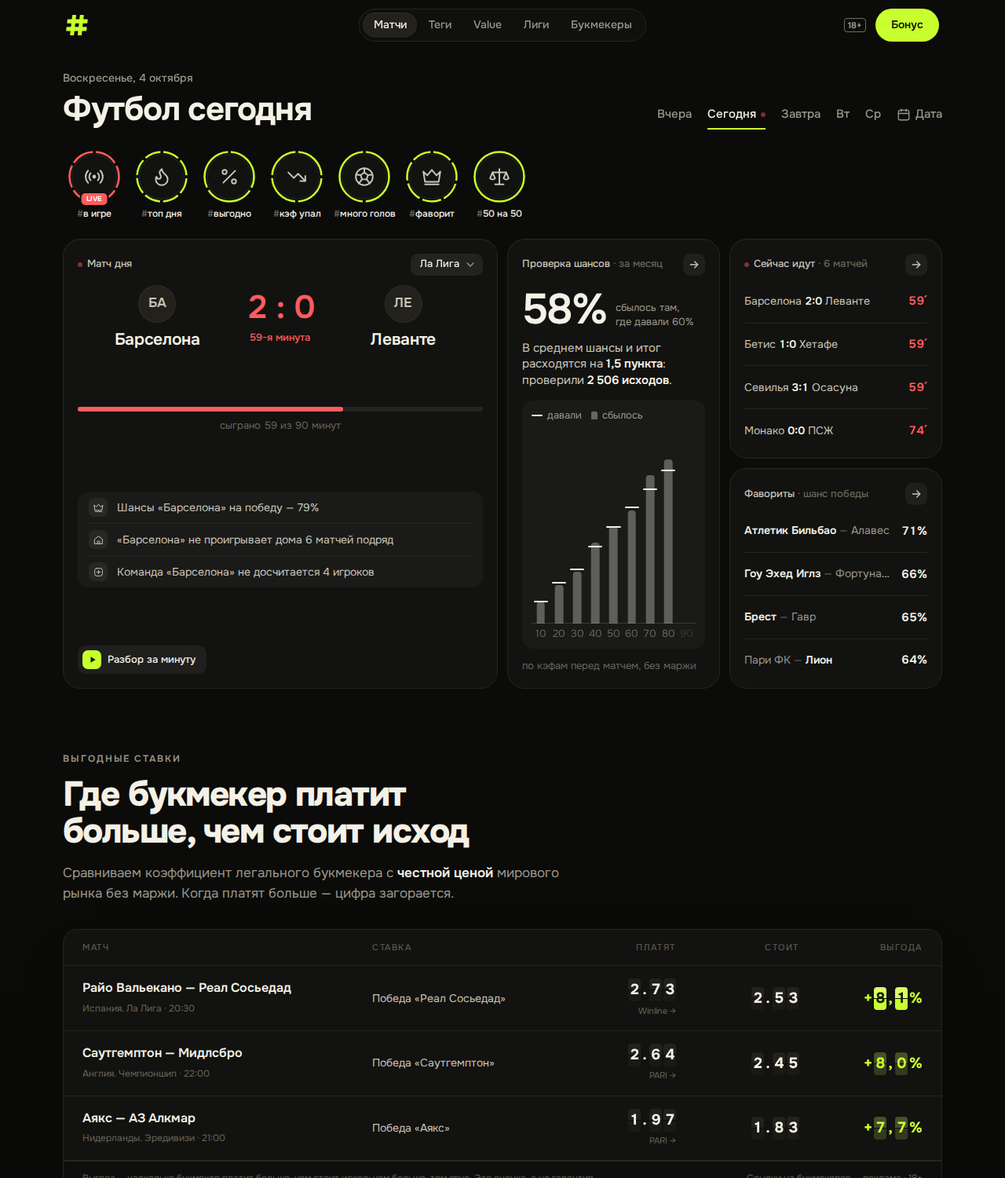
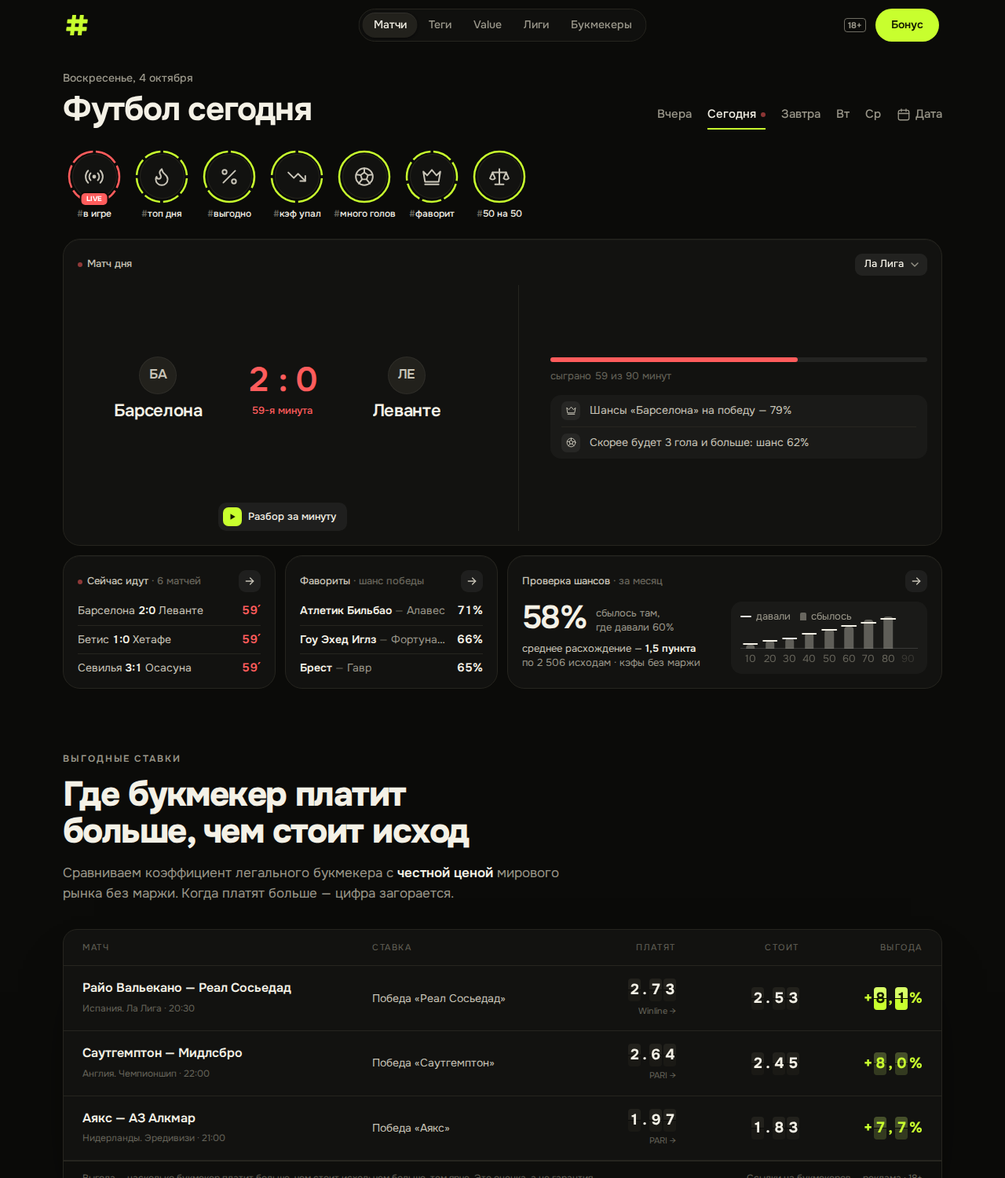
Широкий «Матч дня» сверху и ряд плиток под ним
Владелец сравнил со старым скриншотом: расстановка «главное во всю ширину,
под ним ряд одинаковых плиток» спокойнее и понятнее, чем высокий «Матч дня»
сбоку. Возвращаем её, но с новым содержимым: в плитках — подборки по три
матча, а не «одна цифра + один матч»; «Проверка шансов» — шириной в две.

«Матч дня» на компьютере — в две колонки, без пустой середины: слева табло и
кнопки, справа вывод, полоса шансов и факты «почему» (второй и третий — по
высоте окна). Ряд плиток — по содержимому, лишняя высота — «Матчу дня»;
сводка влезает в 1280×720, 1440×760 и 1470×805.

Claude-Session: https://claude.ai/code/session_01LqCxNKeCAKNwhNzoBsjYvY

diff --git a/components/DaySummary.tsx b/components/DaySummary.tsx
@@ -59,10 +59,10 @@ type ListCard = { title: string; hint?: string; href: string; live?: boolean; ro
 
 const ROW = '-mx-2 flex min-w-0 flex-1 items-center justify-between gap-3 rounded-lg px-2 text-[14px] text-chalk transition-colors hover:bg-white/[0.04]'
 
-/**
- * Строки делят высоту плитки поровну — плитка заполнена, сколько бы места ни дал экран.
- * Четвёртая строка — только на компьютере с высоким окном: на телефоне и ноутбуке пониже хватает трёх.
- */
+/** Строк в плитке: ряд плиток под «Матчем дня» одной высоты, лишняя высота экрана уходит «Матчу дня». */
+const TILE_ROWS = 3
+
+/** Строки делят высоту плитки поровну — плитка заполнена, даже если соседняя в ряду выше. */
 function ListTile({ title, hint, href, live = false, rows }: ListCard) {
   return (
     <article className={`flex h-full min-w-0 flex-col px-[18px] pb-2 pt-[18px] ${CARD}`}>
@@ -75,7 +75,7 @@ function ListTile({ title, hint, href, live = false, rows }: ListCard) {
         <Go />
       </Link>
       <ol className="mt-1.5 flex flex-1 flex-col">
-        {rows.map((r, i) => {
+        {rows.slice(0, TILE_ROWS).map((r) => {
           const body = (
             <>
               <span className="min-w-0 truncate">{r.left}</span>
@@ -83,7 +83,7 @@ function ListTile({ title, hint, href, live = false, rows }: ListCard) {
             </>
           )
           return (
-            <li key={r.key} className={`flex min-h-[36px] flex-1 border-t border-edge first:border-t-0 ${i >= 3 ? 'hidden lg:flex lg:[@media(max-height:759px)]:hidden' : ''}`}>
+            <li key={r.key} className="flex min-h-[36px] flex-1 border-t border-edge first:border-t-0">
               {r.it ? (
                 <StoryLink id={r.it.match.id} href={matchHref(r.it.match)} className={ROW}>
                   {body}
@@ -259,7 +259,7 @@ function ChanceBar({ m }: { m: Match }) {
         ))}
       </div>
       {/* на невысоком ноутбуке подпись прячем — карточка должна влезать в экран */}
-      <p className="mt-1.5 text-center text-[13px] text-mute lg:[@media(max-height:779px)]:hidden" aria-hidden>
+      <p className="mt-1.5 text-center text-[13px] text-mute lg:text-left lg:[@media(max-height:779px)]:hidden" aria-hidden>
         шансы по кэфам букмекеров · в середине — ничья
       </p>
     </div>
@@ -288,8 +288,9 @@ function reasonsFor(it: FeedItem, v: Verdict | null): Reason[] {
 
 /**
  * Слайд «Матча дня» — как карточка матча в спортивных приложениях: табло (хозяева · время или счёт · гости),
- * под ним вывод словами и полоса шансов, ниже — факты «почему» одной панелью и кнопки.
- * Шапка с выбором лиги — у карусели (TopCarousel); лишняя высота делится поровну между блоками.
+ * вывод словами и полоса шансов, факты «почему» одной панелью и кнопки. На телефоне — столбиком;
+ * на компьютере карточка во всю ширину и в две колонки: слева табло и кнопки, справа вывод, шансы
+ * и факты — без пустой середины. Шапка с выбором лиги — у карусели (TopCarousel).
  */
 function TopSlide({ it }: { it: FeedItem }) {
   const m = it.match
@@ -307,20 +308,44 @@ function TopSlide({ it }: { it: FeedItem }) {
     <span className="flex min-w-0 flex-col items-center gap-2 text-center">
       <TeamLogo name={t.name} src={t.logo} size={48} />
       <span
-        className={`line-clamp-2 text-[16px] font-semibold leading-tight tracking-[-0.015em] sm:text-[18px] lg:text-[clamp(17px,2.5vh,21px)] ${v?.side && v.side !== k ? 'text-chalk' : 'text-fg'}`}
+        className={`line-clamp-2 text-[16px] font-semibold leading-tight tracking-[-0.015em] sm:text-[18px] lg:text-[clamp(17px,2.5vh,22px)] ${v?.side && v.side !== k ? 'text-chalk' : 'text-fg'}`}
       >
         {t.name}
       </span>
     </span>
   )
+
+  const state = played ? (
+    live ? (
+      // идёт матч: сколько сыграно — тонкой полосой; вывода до матча здесь уже нет
+      <div>
+        <div className="h-1.5 rounded-full bg-white/[0.08]" aria-hidden>
+          <div className="h-full rounded-full bg-live" style={{ width: `${Math.min(100, ((m.elapsed ?? 45) / 90) * 100)}%` }} />
+        </div>
+        <p className="mt-2 text-center text-[13px] text-mute lg:text-left">сыграно {Math.min(90, m.elapsed ?? 45)} из 90 минут</p>
+      </div>
+    ) : null
+  ) : (
+    // вывод → на чём он основан (полоса шансов по кэфам)
+    <div>
+      {v ? (
+        <p className="mb-2.5 text-center text-[17px] font-semibold leading-snug tracking-[-0.01em] lg:text-left lg:text-[clamp(17px,2.5vh,22px)]">{v.headline}</p>
+      ) : null}
+      <ChanceBar m={m} />
+    </div>
+  )
+  const wide = Boolean(state) || reasons.length > 0
+
   return (
-    <div className="relative flex min-w-0 flex-1 flex-col justify-between gap-4 lg:[@media(max-height:779px)]:gap-3">
+    <div
+      className={`relative flex min-w-0 flex-1 flex-col justify-between gap-4 ${wide ? 'lg:grid lg:grid-cols-2 lg:grid-rows-[minmax(0,1fr)_auto] lg:gap-x-10 lg:gap-y-3' : ''}`}
+    >
       {/* табло: хозяева — время (после свистка — счёт) — гости; вся карточка открывает сторис */}
-      <StoryLink id={m.id} href={matchHref(m)} className={`grid grid-cols-[minmax(0,1fr)_auto_minmax(0,1fr)] items-start gap-3 ${COVER}`}>
+      <StoryLink id={m.id} href={matchHref(m)} className={`grid grid-cols-[minmax(0,1fr)_auto_minmax(0,1fr)] items-start gap-3 lg:self-center ${COVER}`}>
         {side(m.home, 'home')}
         <span className="flex flex-col items-center pt-2">
           <span
-            className={`num whitespace-nowrap text-[30px] font-semibold leading-none tracking-[-0.03em] sm:text-[34px] lg:text-[clamp(32px,4.6vh,44px)] ${live ? 'text-live' : ''}`}
+            className={`num whitespace-nowrap text-[30px] font-semibold leading-none tracking-[-0.03em] sm:text-[34px] lg:text-[clamp(32px,4.8vh,46px)] ${live ? 'text-live' : ''}`}
           >
             {played && m.score ? `${m.score.home} : ${m.score.away}` : formatTime(m.ts)}
           </span>
@@ -331,42 +356,32 @@ function TopSlide({ it }: { it: FeedItem }) {
         {side(m.away, 'away')}
       </StoryLink>
 
-      {played ? (
-        live ? (
-          // идёт матч: сколько сыграно — тонкой полосой; вывода до матча здесь уже нет
-          <div>
-            <div className="h-1.5 rounded-full bg-white/[0.08]" aria-hidden>
-              <div className="h-full rounded-full bg-live" style={{ width: `${Math.min(100, ((m.elapsed ?? 45) / 90) * 100)}%` }} />
-            </div>
-            <p className="mt-2 text-center text-[13px] text-mute">сыграно {Math.min(90, m.elapsed ?? 45)} из 90 минут</p>
-          </div>
-        ) : null
-      ) : (
-        // вывод → на чём он основан (полоса шансов по кэфам)
-        <div>
-          {v ? <p className="mb-2.5 text-center text-[17px] font-semibold leading-snug tracking-[-0.01em] lg:text-[clamp(17px,2.5vh,21px)]">{v.headline}</p> : null}
-          <ChanceBar m={m} />
+      {wide ? (
+        // справа на компьютере: вывод, шансы и факты; разделитель — тонкая линия
+        <div className="flex min-w-0 flex-col justify-between gap-4 lg:col-start-2 lg:row-span-2 lg:row-start-1 lg:justify-center lg:gap-3.5 lg:border-l lg:border-edge lg:pl-10">
+          {state}
+          {reasons.length ? (
+            // факты «почему» — одной панелью; второй и третий — только где хватает высоты окна
+            <ul className="rounded-[14px] bg-white/[0.035] px-3.5">
+              {reasons.map((r, i) => (
+                <li
+                  key={i}
+                  className={`flex items-center gap-3 border-t border-edge py-2 text-[14px] leading-snug text-chalk first:border-t-0 ${
+                    i === 1 ? 'lg:[@media(max-height:739px)]:hidden' : i === 2 ? 'lg:[@media(max-height:859px)]:hidden' : ''
+                  }`}
+                >
+                  <span className={`grid h-6 w-6 shrink-0 place-items-center rounded-[7px] ${r.hot ? 'bg-hot/[0.14] text-hot' : 'bg-white/[0.06] text-chalk'}`}>
+                    <ArtIcon name={r.icon} className="h-[13px] w-[13px]" />
+                  </span>
+                  <span className="line-clamp-2">{r.text}</span>
+                </li>
+              ))}
+            </ul>
+          ) : null}
         </div>
-      )}
-
-      {reasons.length ? (
-        // факты «почему» — одной панелью; третий — только где хватает высоты (невысокий ноутбук)
-        <ul className="rounded-[14px] bg-white/[0.035] px-3.5">
-          {reasons.map((r, i) => (
-            <li
-              key={i}
-              className={`flex items-center gap-3 border-t border-edge py-2 text-[14px] leading-snug text-chalk first:border-t-0 ${i === 2 ? 'lg:[@media(max-height:779px)]:hidden' : ''}`}
-            >
-              <span className={`grid h-6 w-6 shrink-0 place-items-center rounded-[7px] ${r.hot ? 'bg-hot/[0.14] text-hot' : 'bg-white/[0.06] text-chalk'}`}>
-                <ArtIcon name={r.icon} className="h-[13px] w-[13px]" />
-              </span>
-              <span className="line-clamp-2">{r.text}</span>
-            </li>
-          ))}
-        </ul>
       ) : null}
 
-      <div className="flex flex-wrap items-center justify-between gap-x-3 gap-y-2 text-[13px]">
+      <div className="flex flex-wrap items-center justify-between gap-x-3 gap-y-2 text-[13px] lg:col-start-1 lg:row-start-2 lg:justify-center lg:gap-x-2.5">
         <span aria-hidden className="inline-flex shrink-0 items-center gap-2 whitespace-nowrap rounded-[10px] bg-white/[0.06] py-1.5 pl-1.5 pr-3.5 font-medium text-fg">
           <span className="grid h-6 w-6 place-items-center rounded-[7px] bg-acid text-acid-ink">
             <svg viewBox="0 0 12 12" className="ml-px h-2.5 w-2.5" fill="currentColor">
@@ -391,9 +406,9 @@ function TopSlide({ it }: { it: FeedItem }) {
 const B = ({ children }: { children: React.ReactNode }) => <b className="font-semibold text-fg">{children}</b>
 
 /**
- * Аналитика: сбываются ли проценты, которые показывает сайт. Крупно — пример по корзине «около 60%»
- * (порог тега #фаворит): «58% сбылось там, где давали 60%», ниже — средняя разница по всем шансам
- * и график «давали — сбылось» (lib/chance-check.ts). Без денег и обещаний.
+ * Аналитика: сбываются ли проценты, которые показывает сайт. В ряду плиток — шириной в две:
+ * слева крупно пример по корзине «около 60%» (порог тега #фаворит) — «58% сбылось там, где давали 60%»
+ * и среднее расхождение, справа график «давали — сбылось» (lib/chance-check.ts). Без денег и обещаний.
  */
 function ChanceTile({ c }: { c: ChanceCheck }) {
   return (
@@ -404,68 +419,65 @@ function ChanceTile({ c }: { c: ChanceCheck }) {
         </span>
         <Go />
       </Link>
-      <div className="mt-4 flex items-end gap-3">
-        <p className="text-[44px] font-semibold leading-none tracking-[-0.04em] lg:text-[clamp(40px,6.4vh,54px)]">{pct(c.lead.hit)}</p>
-        <p className="pb-0.5 text-[13px] leading-snug text-dim">
-          сбылось там,
-          <br />
-          где давали {pct(c.lead.p)}
-        </p>
+      <div className="mt-3 grid flex-1 gap-4 sm:grid-cols-2">
+        <div className="flex min-w-0 flex-col">
+          <div className="flex items-end gap-3">
+            <p className="text-[40px] font-semibold leading-none tracking-[-0.04em] lg:text-[clamp(34px,4.6vh,44px)]">{pct(c.lead.hit)}</p>
+            <p className="text-[13px] leading-snug text-dim">
+              сбылось там,
+              <br />
+              где давали {pct(c.lead.p)}
+            </p>
+          </div>
+          <p className="mt-2.5 text-[13px] leading-snug text-chalk">
+            среднее расхождение — <B>{c.gap.toFixed(1).replace('.', ',')} пункта</B>
+          </p>
+          <p className="text-[13px] leading-snug text-dim">
+            по {new Intl.NumberFormat('ru-RU').format(c.outcomes)} {plural(c.outcomes, ['исходу', 'исходам', 'исходам'])} · кэфы без маржи
+          </p>
+        </div>
+        <ChanceChart className="h-[150px] sm:h-auto sm:min-h-[90px]" bins={c.bins} />
       </div>
-      <p className="mt-3 text-[15px] leading-snug text-chalk">
-        В среднем шансы и итог расходятся на <B>{c.gap.toFixed(1).replace('.', ',')} пункта</B>: проверили{' '}
-        <B>
-          {new Intl.NumberFormat('ru-RU').format(c.outcomes)} {plural(c.outcomes, ['исход', 'исхода', 'исходов'])}
-        </B>
-        .
-      </p>
-      <ChanceChart className="mt-4 h-[180px] lg:h-auto lg:min-h-[120px] lg:flex-1" bins={c.bins} />
-      <p className="mt-3 text-[13px] text-mute">по кэфам перед матчем, без маржи</p>
     </article>
   )
 }
 
 /**
- * «Сводка дня» — первый экран главной: слева высокий «Матч дня» (карусель по топ-лигам), справа до четырёх плиток-подборок (2×2).
- * На телефоне — всё столбиком, на планшете — подборки по две в ряд. Сводка тянется до низа окна
- * (см. DayView): строки подборок делят высоту поровну, пустых мест в плитках нет.
+ * «Сводка дня» — первый экран главной: сверху во всю ширину «Матч дня» (карусель по топ-лигам),
+ * под ним ряд плиток одной высоты — подборки со списками матчей и «Проверка шансов» шириной в две.
+ * Порядок «главное сверху, детали рядом снизу» владелец счёл спокойнее, чем высокий «Матч дня» сбоку.
+ * На компьютере сводка тянется до низа окна (см. DayView): лишняя высота уходит «Матчу дня»,
+ * ряд плиток — по содержимому (три строки в подборке).
  */
 export function DaySummary({ s, check = null, className = '' }: { s: Summary; check?: ChanceCheck | null; className?: string }) {
   if (!s.top) return null
-  // с «Проверкой шансов» — она на месте двух плиток: справа остаются две подборки
+  // «Проверка шансов» занимает две колонки ряда: подборок тогда две
   const cards = summaryCards(s).slice(0, check ? 2 : 4)
-  const n = cards.length
-  // плиток меньше, чем мест, — растягиваем последние, чтобы в сетке не было дыр
-  const span = (i: number) =>
-    check
-      ? n === 1
-        ? 'lg:row-span-2'
-        : ''
-      : n === 1
-        ? 'sm:col-span-2 lg:row-span-2'
-        : n === 2 || (n === 3 && i === 2)
-          ? 'sm:col-span-2'
-          : ''
+  const cols = cards.length + (check ? 2 : 0)
+  const lgCols = cols >= 4 ? 'lg:grid-cols-4' : cols === 3 ? 'lg:grid-cols-3' : cols === 2 ? 'lg:grid-cols-2' : ''
+  // на планшете по две в ряд: одинокая последняя подборка — во всю ширину
+  const wideLast = !check && cards.length % 2 === 1
   return (
-    <section aria-label="Сводка дня" className={`grid gap-3 sm:grid-cols-2 lg:grid-cols-4 ${className}`}>
-      <TopCarousel
-        heads={s.tops.map((t) => ({ league: leagueShort(t.match.league), live: isLive(t.match) }))}
-        className={`sm:col-span-2 lg:row-span-2 ${n === 0 && !check ? 'lg:col-span-4' : ''} ${CARD}`}
-      >
+    <section aria-label="Сводка дня" className={`flex flex-col gap-3 ${className}`}>
+      <TopCarousel heads={s.tops.map((t) => ({ league: leagueShort(t.match.league), live: isLive(t.match) }))} className={`lg:flex-1 ${CARD}`}>
         {s.tops.map((t) => (
           <TopSlide key={t.match.id} it={t} />
         ))}
       </TopCarousel>
-      {check ? (
-        <div className={`min-w-0 lg:row-span-2 ${n === 0 ? 'sm:col-span-2' : ''}`}>
-          <ChanceTile c={check} />
+      {cols ? (
+        <div className={`grid gap-3 sm:grid-cols-2 ${lgCols}`}>
+          {cards.map((k, i) => (
+            <div key={k} className={`min-w-0 ${(wideLast && i === cards.length - 1) || (check && cards.length === 1) ? 'sm:col-span-2 lg:col-span-1' : ''}`}>
+              <ListTile {...cardFor(k, s)} />
+            </div>
+          ))}
+          {check ? (
+            <div className="min-w-0 sm:col-span-2">
+              <ChanceTile c={check} />
+            </div>
+          ) : null}
         </div>
       ) : null}
-      {cards.map((k, i) => (
-        <div key={k} className={`min-w-0 ${span(i)}`}>
-          <ListTile {...cardFor(k, s)} />
-        </div>
-      ))}
     </section>
   )
 }

diff --git a/components/ChanceChart.tsx b/components/ChanceChart.tsx
@@ -59,24 +59,12 @@ export function ChanceChart({ bins, className = '' }: { bins: ChanceBin[]; class
         </div>
       ) : null}
 
-      {/* легенда: черта и столбик — как на графике */}
-      <p className="flex items-center gap-3 text-[13px] leading-none text-dim" aria-hidden>
-        <span className="flex items-center gap-1.5">
-          <span className="h-0.5 w-3.5 rounded-full bg-fg" />
-          давали
-        </span>
-        <span className="flex items-center gap-1.5">
-          <span className="h-2.5 w-2 rounded-t-[2px] bg-chalk/45" />
-          сбылось
-        </span>
-      </p>
-
       <div
         ref={plot}
         tabIndex={0}
         role="group"
         aria-label={`Давали и сбылось по шансам: ${bins.map((x) => `около ${x.at}% — сбылось ${pc(x.hit)}`).join(', ')}. Стрелками — по корзинам.`}
-        className="relative mt-3 min-h-0 flex-1 touch-pan-y rounded-md outline-none focus-visible:ring-2 focus-visible:ring-acid/50"
+        className="relative min-h-0 flex-1 touch-pan-y rounded-md outline-none focus-visible:ring-2 focus-visible:ring-acid/50"
         onPointerMove={(e) => pick(e.clientX)}
         onPointerDown={(e) => pick(e.clientX)}
         // палец «уходит» с графика сразу после касания — подсказку с тапа убирает только тап мимо (blur)
@@ -89,6 +77,17 @@ export function ChanceChart({ bins, className = '' }: { bins: ChanceBin[]; class
           } else if (e.key === 'Escape') setCur(null)
         }}
       >
+        {/* легенда — в левом верхнем углу: там низкие столбики (шансы 10–30%), места хватает */}
+        <p className="pointer-events-none absolute left-0 top-0 flex items-center gap-3 text-[13px] leading-none text-dim" aria-hidden>
+          <span className="flex items-center gap-1.5">
+            <span className="h-0.5 w-3.5 rounded-full bg-fg" />
+            давали
+          </span>
+          <span className="flex items-center gap-1.5">
+            <span className="h-2.5 w-2 rounded-t-[2px] bg-chalk/45" />
+            сбылось
+          </span>
+        </p>
         <span className="pointer-events-none absolute inset-x-0 bottom-0 h-px bg-white/[0.14]" />
         {slots.map((at, k) => {
           const x = byAt.get(at)

diff --git a/AGENTS.md b/AGENTS.md
@@ -20,7 +20,7 @@ This block is written and re-added by `next dev` — verify at `node_modules/nex
 - Демо без сети: `SSTATS_MOCK=1` (полосы над шапкой нет — только строка в подвале, `IS_MOCK` в `Footer.tsx`). Проверки: `npm run typecheck`, `npm test`, `npm run build`.
 - «Матч в слайдах» (сторис): данные — `lib/story.ts` → `/api/story/[id]`, просмотр и графики — `components/story/`. Ссылки на матч в списках — через `StoryLink` (обычная ссылка для SEO, клик открывает сторис).
 - Кружки историй на главной: группы — `lib/story-groups.ts` (порядок по `lib/rank.ts`), ряд — `components/story/StoryCircles.tsx`, очередь передаётся в просмотрщик через `openStory({ queue })`. Просмотренные — в `localStorage` (`components/story/seen.ts`, ключ `tagbet:seen:v2`), только для колец и отдельно для каждого кружка (отметка «кружок:матч»): просмотр в одном кружке не гасит другие, открытия из списков и виджетов не считаются; сегменты гаснут по порядку от верха. Очередь по тапу и отметки повторов — `components/story/queue.ts` (тест `tests/story-queue.test.ts`). На главной — «#в игре», «#топ дня» и до 5 главных тегов (`mainCircles`), подписи в одну строку; хештег — у всех кружков, и у подборок тоже (владельцу показалось странным, что «Топ дня» без него).
-- «Сводка дня» (виджеты первого экрана главной): данные — `lib/day-summary.ts` (`buildDaySummary`: матч дня и подборки `lists` — live, ближайшие, фавориты от 60%, голы, выгодные, падение кэфа; матч дня в подборках не повторяется; `summaryCards` — какие 4 плитки показать: что идёт (или скоро начнётся) → фавориты → голы → выгодно, запасные — кэф упал, ближайшие, турниры дня), вид — `components/DaySummary.tsx`. «Матч дня» — `components/TopCarousel.tsx` (клиент): по слайду на главный матч каждой топ-лиги (`tops` в `buildDaySummary`, до 5, первым — матч дня); лига выбирается чипом-меню «Ла Лига ▾» справа сверху, сама карточка не листается (выбор не должен уезжать); лента со scroll-snap — свайп на телефоне, без JS видны все слайды. На «Сегодня» рядом — аналитика «Проверка шансов · за месяц» (`ChanceTile` в `DaySummary.tsx`, график — `components/ChanceChart.tsx`): сбываются ли проценты сайта. Крупно — корзина «около 60%» (порог #фаворит): «58% — сбылось там, где давали 60%», фраза «В среднем шансы и итог расходятся на 1,5 пункта: проверили 2 506 исходов», внизу график «давали — сбылось»: по корзинам «около 10% … 90%» столбик (сбылось) и белая черта (давали), монохромно; наведение/тап/стрелки — подсказка над графиком; «→» ведёт на `/about#proverka`. Расчёт — `lib/chance-check.ts` (исходы 1X2 сыгранных «взрослых» матчей, шансы — кэфы перед матчем без маржи, итог — по основному времени; корзина меньше 30 исходов не показывается, всего меньше 300 — виджета нет, на его месте плитки-подборки), данные — `getChanceCheck` в `lib/data.ts` (30 дней до сегодня; итоги дня кэшируются отдельно и надолго, на холодном старте главная ждёт `peekChanceCheck` не дольше 1,5 с, остальное считает прогрев). Тёмная, во всю высоту, на месте двух плиток — подборок справа тогда две. Не возвращайте виджет «сколько бы заработали» в рублях: крупное «+8 160 ₽, если ставить по 1000 ₽» читается как «ставки — заработок» (ст. 27 закона «О рекламе»), владелец выбрал проценты; и «Фавориты вчера» (кто выиграл, без сравнения с шансом) — тоже нет. На компьютере слева высокий «Матч дня» — как карточка матча в спортивных приложениях: табло «хозяева (эмблема 48px и название) · время (под ним «через 40 мин» / дата; в игре — красный счёт и минута) · гости», под ним вывод словами по центру и нейтральная полоса шансов в процентах (левая часть — под хозяевами, правая — под гостями, светлая — фаворит; подписей с названиями нет — команды прямо над полосой, одна строка «шансы по кэфам букмекеров · в середине — ничья», на невысоком экране скрыта), факты «почему» из тегов одной вложенной панелью с разделителями (значки — как у кружков этих тегов; третий — только при высоте окна от 780px), «Разбор за минуту» и «Выгодно»; во время игры — полоса «сыграно N из 90 минут». Справа — до 4 плиток-подборок 2×2: каждая отвечает на один вопрос несколькими матчами — заголовок с вопросом и что значит цифра («Фавориты · шанс победы», «Ждём голов · шанс 3+ голов»), строки «команды … цифра» (выделенная команда — ярче или цветом подборки), строка открывает сторис, заголовок со стрелкой `Go` — страницу тега или список матчей. Строки делят высоту плитки поровну (пустот нет); четвёртая — только на lg при высоте окна от 760px. Не возвращайте плитки «одна крупная цифра + один матч» — владелец счёл их неинформативными; и не убирайте «Матч дня» — без него сводка («Главное за день») не понравилась. Всё тёмное, цвет — только у цифр и выделенной команды: лайм — выгодно, янтарь — кэф упал, красный — live; текст не мельче 13px, без колец-диаграмм (похожи на значок загрузки). Выбор дня — `DateTabs` (Вчера · Сегодня · Завтра · дальше день недели без числа; красная точка у «Сегодня», пока идут матчи — `liveToday` из `DayView`) + календарь `DatePicker` (±1 год / +2 месяца). Порядок «Все матчи дня» — переключатель «По турнирам / По времени» ссылками `?sort=time` (без JS, canonical прежний; `TimeBlock` — по часам, с турниром в строке); на прошедших днях переключателя нет — там порядок по турнирам, главные результаты первыми. Первый экран главной (шапка, кружки, сводка) на компьютере занимает всё окно: обёртка в `DayView` — `lg:min-h-[min(calc(100svh-7rem),50rem)]`, сводка — `lg:flex-1`, команды и вывод «Матча дня» растут с высотой окна (`clamp(…vh…)`), а «Все матчи дня» начинаются ниже, по прокрутке. Сводка должна влезать целиком в 1280×720 и 1440×760, а заголовок «Матчи» — не выглядывать снизу; проверяйте замером. На прошедших днях сводки нет.
+- «Сводка дня» (виджеты первого экрана главной): данные — `lib/day-summary.ts` (`buildDaySummary`: матч дня и подборки `lists` — live, ближайшие, фавориты от 60%, голы, выгодные, падение кэфа; матч дня в подборках не повторяется; `summaryCards` — какие 4 плитки показать: что идёт (или скоро начнётся) → фавориты → голы → выгодно, запасные — кэф упал, ближайшие, турниры дня), вид — `components/DaySummary.tsx`. «Матч дня» — `components/TopCarousel.tsx` (клиент): по слайду на главный матч каждой топ-лиги (`tops` в `buildDaySummary`, до 5, первым — матч дня); лига выбирается чипом-меню «Ла Лига ▾» справа сверху, сама карточка не листается (выбор не должен уезжать); лента со scroll-snap — свайп на телефоне, без JS видны все слайды. На «Сегодня» рядом — аналитика «Проверка шансов · за месяц» (`ChanceTile` в `DaySummary.tsx`, график — `components/ChanceChart.tsx`): сбываются ли проценты сайта. Крупно — корзина «около 60%» (порог #фаворит): «58% — сбылось там, где давали 60%», фраза «В среднем шансы и итог расходятся на 1,5 пункта: проверили 2 506 исходов», внизу график «давали — сбылось»: по корзинам «около 10% … 90%» столбик (сбылось) и белая черта (давали), монохромно; наведение/тап/стрелки — подсказка над графиком; «→» ведёт на `/about#proverka`. Расчёт — `lib/chance-check.ts` (исходы 1X2 сыгранных «взрослых» матчей, шансы — кэфы перед матчем без маржи, итог — по основному времени; корзина меньше 30 исходов не показывается, всего меньше 300 — виджета нет, на его месте плитки-подборки), данные — `getChanceCheck` в `lib/data.ts` (30 дней до сегодня; итоги дня кэшируются отдельно и надолго, на холодном старте главная ждёт `peekChanceCheck` не дольше 1,5 с, остальное считает прогрев). В ряду плиток она шириной в две (слева цифра и две строки, справа график; легенда — в левом верхнем углу графика, где низкие столбики) — подборок рядом тогда две. Не возвращайте виджет «сколько бы заработали» в рублях: крупное «+8 160 ₽, если ставить по 1000 ₽» читается как «ставки — заработок» (ст. 27 закона «О рекламе»), владелец выбрал проценты; и «Фавориты вчера» (кто выиграл, без сравнения с шансом) — тоже нет. Расстановка: сверху во всю ширину «Матч дня», под ним ряд плиток одной высоты — 4 подборки или 2 подборки + «Проверка шансов» (на планшете по две в ряд, на телефоне столбиком). Владелец сравнил с вариантом «высокий «Матч дня» слева, плитки справа» и решил, что ряд под широкой карточкой спокойнее и понятнее — не возвращайте эту схему. «Матч дня» — как карточка матча в спортивных приложениях; на компьютере в две колонки, без пустой середины: слева табло «хозяева (эмблема 48px и название) · время (под ним «через 40 мин» / дата; в игре — красный счёт и минута) · гости» и под ним «Разбор за минуту» и «Выгодно», справа через тонкий разделитель — вывод словами, нейтральная полоса шансов в процентах (левая часть — хозяева, правая — гости, светлая — фаворит; одна строка «шансы по кэфам букмекеров · в середине — ничья», на невысоком экране скрыта) и факты «почему» из тегов одной вложенной панелью (значки — как у кружков этих тегов; второй — при высоте окна от 740px, третий — от 860px); во время игры справа — полоса «сыграно N из 90 минут». Высота карусели — по самому высокому слайду. Подборки: каждая отвечает на один вопрос несколькими матчами — заголовок с вопросом и что значит цифра («Фавориты · шанс победы», «Ждём голов · шанс 3+ голов»), три строки «команды … цифра» (выделенная команда — ярче или цветом подборки), строка открывает сторис, заголовок со стрелкой `Go` — страницу тега или список матчей; строки делят высоту плитки поровну. Не возвращайте плитки «одна крупная цифра + один матч» — владелец счёл их неинформативными; и не убирайте «Матч дня» — без него сводка («Главное за день») не понравилась. Всё тёмное, цвет — только у цифр и выделенной команды: лайм — выгодно, янтарь — кэф упал, красный — live; текст не мельче 13px, без колец-диаграмм (похожи на значок загрузки). Выбор дня — `DateTabs` (Вчера · Сегодня · Завтра · дальше день недели без числа; красная точка у «Сегодня», пока идут матчи — `liveToday` из `DayView`) + календарь `DatePicker` (±1 год / +2 месяца). Порядок «Все матчи дня» — переключатель «По турнирам / По времени» ссылками `?sort=time` (без JS, canonical прежний; `TimeBlock` — по часам, с турниром в строке); на прошедших днях переключателя нет — там порядок по турнирам, главные результаты первыми. Первый экран главной (шапка, кружки, сводка) на компьютере занимает всё окно: обёртка в `DayView` — `lg:min-h-[min(calc(100svh-7rem),50rem)]`, сводка — `lg:flex-1` и внутри flex-колонка: ряд плиток — по содержимому (≈170px), вся лишняя высота — «Матчу дня» (`lg:flex-1`; не делайте строки grid с `fr` — в intrinsic-проходе они раздуваются), команды и вывод растут с высотой окна (`clamp(…vh…)`), а «Все матчи дня» начинаются ниже, по прокрутке. Сводка должна влезать целиком в 1280×720 и 1440×760, а заголовок «Матчи» — не выглядывать снизу; проверяйте замером. На прошедших днях сводки нет.
 - Шапка (логотип — только наклонная лаймовая решётка `LogoMark`, 26 px в шапке и 28 в подвале, без надписи «tag.bet» — так решил владелец; знак — `components/logo-paths.ts` из `public/brand/mark.svg`; без подложки): `components/Header.tsx` + `HeaderShell.tsx` (стекло после прокрутки) + `NavCapsule.tsx` (меню-капсула; раздел по адресу — `activeNav`).
 - Кнопки и чипы внутри карточек (чип лиги, стрелка `Go`, «Разбор за минуту», «Выгодно») — скруглённые прямоугольники (углы 9–10px, меню — 14px), мягкая заливка без обводки, высота 28px; капсулой остаётся только меню в шапке. Отступ карточек сводки — 18px со всех сторон (у чипа в углу сверху и справа поровну — проверяйте замером).
 - Цвета по смыслу: лайм — «цена выше честной» (сила перевеса — яркостью лайма, `edgeTone` в `components/Flaps.tsx`), янтарь — прогруз, красный — live. Светофор не используем.

diff --git a/README.md b/README.md
@@ -32,9 +32,9 @@
 ## Что уже работает
 
 - Главная и страницы дней: кружки историй («#в игре», «#топ дня» и до пяти главных тегов), «сводка
-  дня» из виджетов — она занимает весь первый экран: заходишь и сразу видишь главное. Слева «Матч дня» —
-  по топ-лигам с выбором лиги чипом (команды и время начала, вывод словами, полоса шансов, до трёх фактов «почему»), справа — плитки-подборки,
-  каждая отвечает на один вопрос несколькими матчами: что идёт сейчас (или скоро начнётся), фавориты
+  дня» из виджетов — она занимает весь первый экран: заходишь и сразу видишь главное. Сверху во всю ширину
+  «Матч дня» — по топ-лигам с выбором лиги чипом (слева табло и кнопки, справа вывод словами, полоса шансов
+  и факты «почему»), под ним ряд плиток-подборок, каждая отвечает на один вопрос несколькими матчами: что идёт сейчас (или скоро начнётся), фавориты
   с шансом победы, где ждать голов, где кэф выше честного, где он упал. Строка открывает сторис матча,
   заголовок со стрелкой — все такие матчи. На «Сегодня» — «Проверка шансов»: сбываются ли проценты
   сайта («58% сбылось там, где давали 60%») — по всем сыгранным матчам месяца, с графиком «давали —
